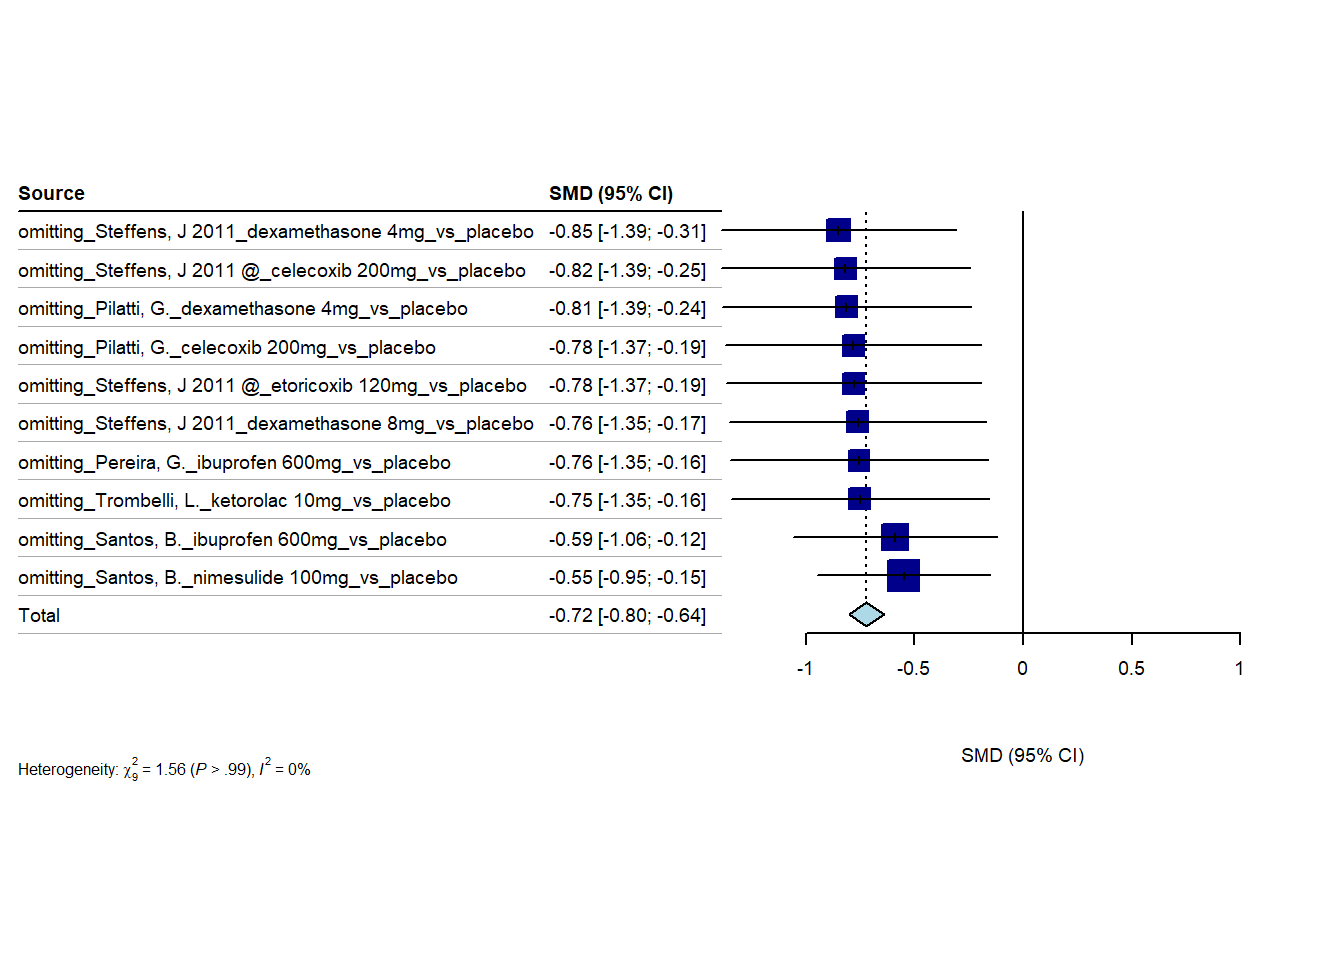
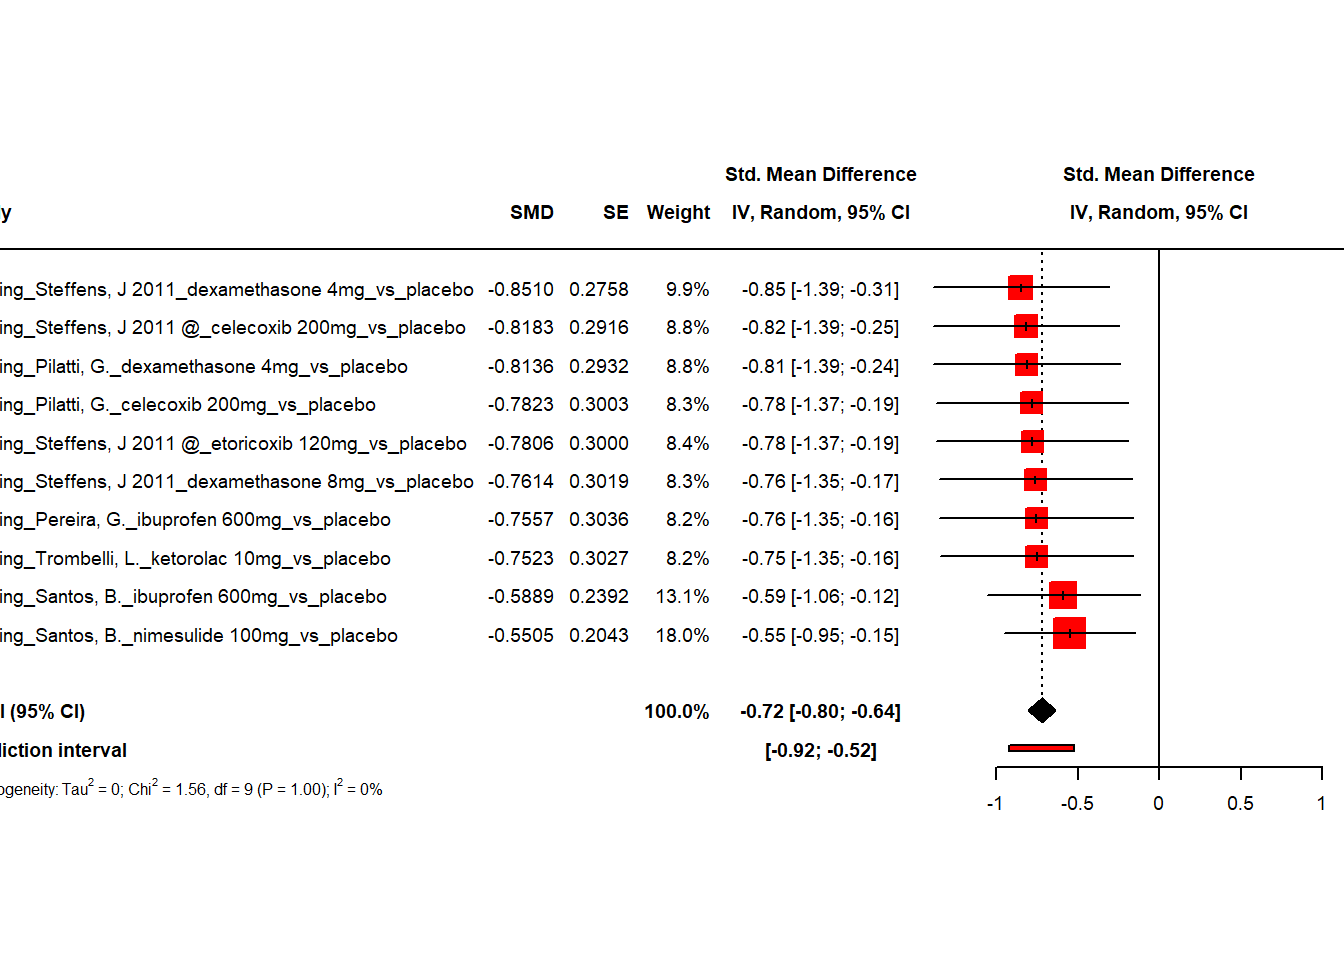
1/31/2025

diff --git a/docs/2023_0301_Christos_1hour_updated.html b/docs/2023_0301_Christos_1hour_updated.html
@@ -576,15 +576,15 @@ analysis/Rfunctions.R
 <div class="panel panel-default">
 <div class="panel-heading">
 <p class="panel-title">
-<a data-toggle="collapse" data-parent="#workflowr-checks" href="#strongRepositoryversionstrongahrefhttpsgithubcomhan16Collaborationstree6ff76b91677db8f1afdce96d73c72a4699b1d46btargetblank6ff76b9a">
+<a data-toggle="collapse" data-parent="#workflowr-checks" href="#strongRepositoryversionstrongahrefhttpsgithubcomhan16Collaborationstree5d33021ddedd2dfeb625e9aada21a4beecdb106ftargetblank5d33021a">
 <span class="glyphicon glyphicon-ok text-success"
 aria-hidden="true"></span> <strong>Repository version:</strong>
-<a href="https://github.com/han16/Collaborations/tree/6ff76b91677db8f1afdce96d73c72a4699b1d46b" target="_blank">6ff76b9</a>
+<a href="https://github.com/han16/Collaborations/tree/5d33021ddedd2dfeb625e9aada21a4beecdb106f" target="_blank">5d33021</a>
 </a>
 </p>
 </div>
 <div
[2 lines of base64/hex data omitted]
 class="panel-collapse collapse">
 <div class="panel-body">
 <p>
@@ -594,7 +594,7 @@ reproducibility.
 </p>
 <p>
 The results in this page were generated with repository version
-<a href="https://github.com/han16/Collaborations/tree/6ff76b91677db8f1afdce96d73c72a4699b1d46b" target="_blank">6ff76b9</a>.
+<a href="https://github.com/han16/Collaborations/tree/5d33021ddedd2dfeb625e9aada21a4beecdb106f" target="_blank">5d33021</a>.
 See the <em>Past versions</em> tab to see a history of the changes made
 to the R Markdown and HTML files.
 </p>
@@ -661,6 +661,40 @@ Message
 </tr>
 </thead>
 <tbody>
+<tr>
+<td>
+Rmd
+</td>
+<td>
+<a href="https://github.com/han16/Collaborations/blob/5d33021ddedd2dfeb625e9aada21a4beecdb106f/analysis/2023_0301_Christos_1hour_updated.Rmd" target="_blank">5d33021</a>
+</td>
+<td>
+han
+</td>
+<td>
+2025-01-31
+</td>
+<td>
+1/31/2025
+</td>
+</tr>
+<tr>
+<td>
+html
+</td>
+<td>
+<a href="https://rawcdn.githack.com/han16/Collaborations/5d33021ddedd2dfeb625e9aada21a4beecdb106f/docs/2023_0301_Christos_1hour_updated.html" target="_blank">5d33021</a>
+</td>
+<td>
+han
+</td>
+<td>
+2025-01-31
+</td>
+<td>
+1/31/2025
+</td>
+</tr>
 <tr>
 <td>
 Rmd
@@ -872,6 +906,17 @@ Date
 <tbody>
 <tr>
 <td>
+<a href="https://github.com/han16/Collaborations/blob/5d33021ddedd2dfeb625e9aada21a4beecdb106f/docs/figure/2023_0301_Christos_1hour_updated.Rmd/unnamed-chunk-5-1.png" target="_blank">5d33021</a>
+</td>
+<td>
+han
+</td>
+<td>
+2025-01-31
+</td>
+</tr>
+<tr>
+<td>
 <a href="https://github.com/han16/Collaborations/blob/1449d4ad8537a8494116d684c901b28d60ecd751/docs/figure/2023_0301_Christos_1hour_updated.Rmd/unnamed-chunk-5-1.png" target="_blank">1449d4a</a>
 </td>
 <td>
@@ -908,6 +953,17 @@ Date
 </tr>
 </thead>
 <tbody>
+<tr>
+<td>
+<a href="https://github.com/han16/Collaborations/blob/5d33021ddedd2dfeb625e9aada21a4beecdb106f/docs/figure/2023_0301_Christos_1hour_updated.Rmd/unnamed-chunk-5-2.png" target="_blank">5d33021</a>
+</td>
+<td>
+han
+</td>
+<td>
+2025-01-31
+</td>
+</tr>
 <tr>
 <td>
 <a href="https://github.com/han16/Collaborations/blob/1449d4ad8537a8494116d684c901b28d60ecd751/docs/figure/2023_0301_Christos_1hour_updated.Rmd/unnamed-chunk-5-2.png" target="_blank">1449d4a</a>
@@ -1117,6 +1173,17 @@ Date
 </tr>
 </thead>
 <tbody>
+<tr>
+<td>
+<a href="https://github.com/han16/Collaborations/blob/5d33021ddedd2dfeb625e9aada21a4beecdb106f/docs/figure/2023_0301_Christos_1hour_updated.Rmd/unnamed-chunk-9-1.png" target="_blank">5d33021</a>
+</td>
+<td>
+han
+</td>
+<td>
+2025-01-31
+</td>
+</tr>
 <tr>
 <td>
 <a href="https://github.com/han16/Collaborations/blob/1449d4ad8537a8494116d684c901b28d60ecd751/docs/figure/2023_0301_Christos_1hour_updated.Rmd/unnamed-chunk-9-1.png" target="_blank">1449d4a</a>
@@ -1617,8 +1684,8 @@ m.gen_leave_one_out &lt;- metagen(TE = TE_random,
 
 #summary(m.gen)
 
-forest(m.gen_leave_one_out, layout=&quot;JAMA&quot;, sortvar = TE, 
-            prediction = FALSE, 
+forest(m.gen_leave_one_out, layout=&quot;RevMan5&quot;, sortvar = TE, 
+            prediction = T, 
             print.tau2 = FALSE,
             fontsize=7,
             leftlabs = c(&quot;study&quot;, &quot;SE&quot;, &quot;g&quot;)) # sortvar = TE: sort studies by effect size </code></pre>
@@ -1645,6 +1712,17 @@ Date
 </tr>
 </thead>
 <tbody>
+<tr>
+<td>
+<a href="https://github.com/han16/Collaborations/blob/5d33021ddedd2dfeb625e9aada21a4beecdb106f/docs/figure/2023_0301_Christos_1hour_updated.Rmd/unnamed-chunk-26-1.png" target="_blank">5d33021</a>
+</td>
+<td>
+han
+</td>
+<td>
+2025-01-31
+</td>
+</tr>
 <tr>
 <td>
 <a href="https://github.com/han16/Collaborations/blob/1449d4ad8537a8494116d684c901b28d60ecd751/docs/figure/2023_0301_Christos_1hour_updated.Rmd/unnamed-chunk-26-1.png" target="_blank">1449d4a</a>
@@ -1718,6 +1796,17 @@ Date
 </tr>
 </thead>
 <tbody>
+<tr>
+<td>
+<a href="https://github.com/han16/Collaborations/blob/5d33021ddedd2dfeb625e9aada21a4beecdb106f/docs/figure/2023_0301_Christos_1hour_updated.Rmd/unnamed-chunk-27-1.png" target="_blank">5d33021</a>
+</td>
+<td>
+han
+</td>
+<td>
+2025-01-31
+</td>
+</tr>
 <tr>
 <td>
 <a href="https://github.com/han16/Collaborations/blob/1449d4ad8537a8494116d684c901b28d60ecd751/docs/figure/2023_0301_Christos_1hour_updated.Rmd/unnamed-chunk-27-1.png" target="_blank">1449d4a</a>
@@ -1967,6 +2056,17 @@ Date
 <tbody>
 <tr>
 <td>
+<a href="https://github.com/han16/Collaborations/blob/5d33021ddedd2dfeb625e9aada21a4beecdb106f/docs/figure/2023_0301_Christos_1hour_updated.Rmd/unnamed-chunk-32-1.png" target="_blank">5d33021</a>
+</td>
+<td>
+han
+</td>
+<td>
+2025-01-31
+</td>
+</tr>
+<tr>
+<td>
 <a href="https://github.com/han16/Collaborations/blob/1449d4ad8537a8494116d684c901b28d60ecd751/docs/figure/2023_0301_Christos_1hour_updated.Rmd/unnamed-chunk-32-1.png" target="_blank">1449d4a</a>
 </td>
 <td>
@@ -2013,6 +2113,17 @@ Date
 </tr>
 </thead>
 <tbody>
+<tr>
+<td>
+<a href="https://github.com/han16/Collaborations/blob/5d33021ddedd2dfeb625e9aada21a4beecdb106f/docs/figure/2023_0301_Christos_1hour_updated.Rmd/unnamed-chunk-32-2.png" target="_blank">5d33021</a>
+</td>
+<td>
+han
+</td>
+<td>
+2025-01-31
+</td>
+</tr>
 <tr>
 <td>
 <a href="https://github.com/han16/Collaborations/blob/1449d4ad8537a8494116d684c901b28d60ecd751/docs/figure/2023_0301_Christos_1hour_updated.Rmd/unnamed-chunk-32-2.png" target="_blank">1449d4a</a>
@@ -2063,6 +2174,17 @@ Date
 </tr>
 </thead>
 <tbody>
+<tr>
+<td>
+<a href="https://github.com/han16/Collaborations/blob/5d33021ddedd2dfeb625e9aada21a4beecdb106f/docs/figure/2023_0301_Christos_1hour_updated.Rmd/unnamed-chunk-33-1.png" target="_blank">5d33021</a>
+</td>
+<td>
+han
+</td>
+<td>
+2025-01-31
+</td>
+</tr>
 <tr>
 <td>
 <a href="https://github.com/han16/Collaborations/blob/1449d4ad8537a8494116d684c901b28d60ecd751/docs/figure/2023_0301_Christos_1hour_updated.Rmd/unnamed-chunk-33-1.png" target="_blank">1449d4a</a>
@@ -2125,6 +2247,17 @@ Date
 </tr>
 </thead>
 <tbody>
+<tr>
+<td>
+<a href="https://github.com/han16/Collaborations/blob/5d33021ddedd2dfeb625e9aada21a4beecdb106f/docs/figure/2023_0301_Christos_1hour_updated.Rmd/unnamed-chunk-34-1.png" target="_blank">5d33021</a>
+</td>
+<td>
+han
+</td>
+<td>
+2025-01-31
+</td>
+</tr>
 <tr>
 <td>
 <a href="https://github.com/han16/Collaborations/blob/1449d4ad8537a8494116d684c901b28d60ecd751/docs/figure/2023_0301_Christos_1hour_updated.Rmd/unnamed-chunk-34-1.png" target="_blank">1449d4a</a>
@@ -2275,6 +2408,17 @@ Date
 <tbody>
 <tr>
 <td>
+<a href="https://github.com/han16/Collaborations/blob/5d33021ddedd2dfeb625e9aada21a4beecdb106f/docs/figure/2023_0301_Christos_1hour_updated.Rmd/unnamed-chunk-36-1.png" target="_blank">5d33021</a>
+</td>
+<td>
+han
+</td>
+<td>
+2025-01-31
+</td>
+</tr>
+<tr>
+<td>
 <a href="https://github.com/han16/Collaborations/blob/1449d4ad8537a8494116d684c901b28d60ecd751/docs/figure/2023_0301_Christos_1hour_updated.Rmd/unnamed-chunk-36-1.png" target="_blank">1449d4a</a>
 </td>
 <td>
@@ -2406,6 +2550,17 @@ Date
 </tr>
 </thead>
 <tbody>
+<tr>
+<td>
+<a href="https://github.com/han16/Collaborations/blob/5d33021ddedd2dfeb625e9aada21a4beecdb106f/docs/figure/2023_0301_Christos_1hour_updated.Rmd/unnamed-chunk-38-1.png" target="_blank">5d33021</a>
+</td>
+<td>
+han
+</td>
+<td>
+2025-01-31
+</td>
+</tr>
 <tr>
 <td>
 <a href="https://github.com/han16/Collaborations/blob/1449d4ad8537a8494116d684c901b28d60ecd751/docs/figure/2023_0301_Christos_1hour_updated.Rmd/unnamed-chunk-38-1.png" target="_blank">1449d4a</a>
